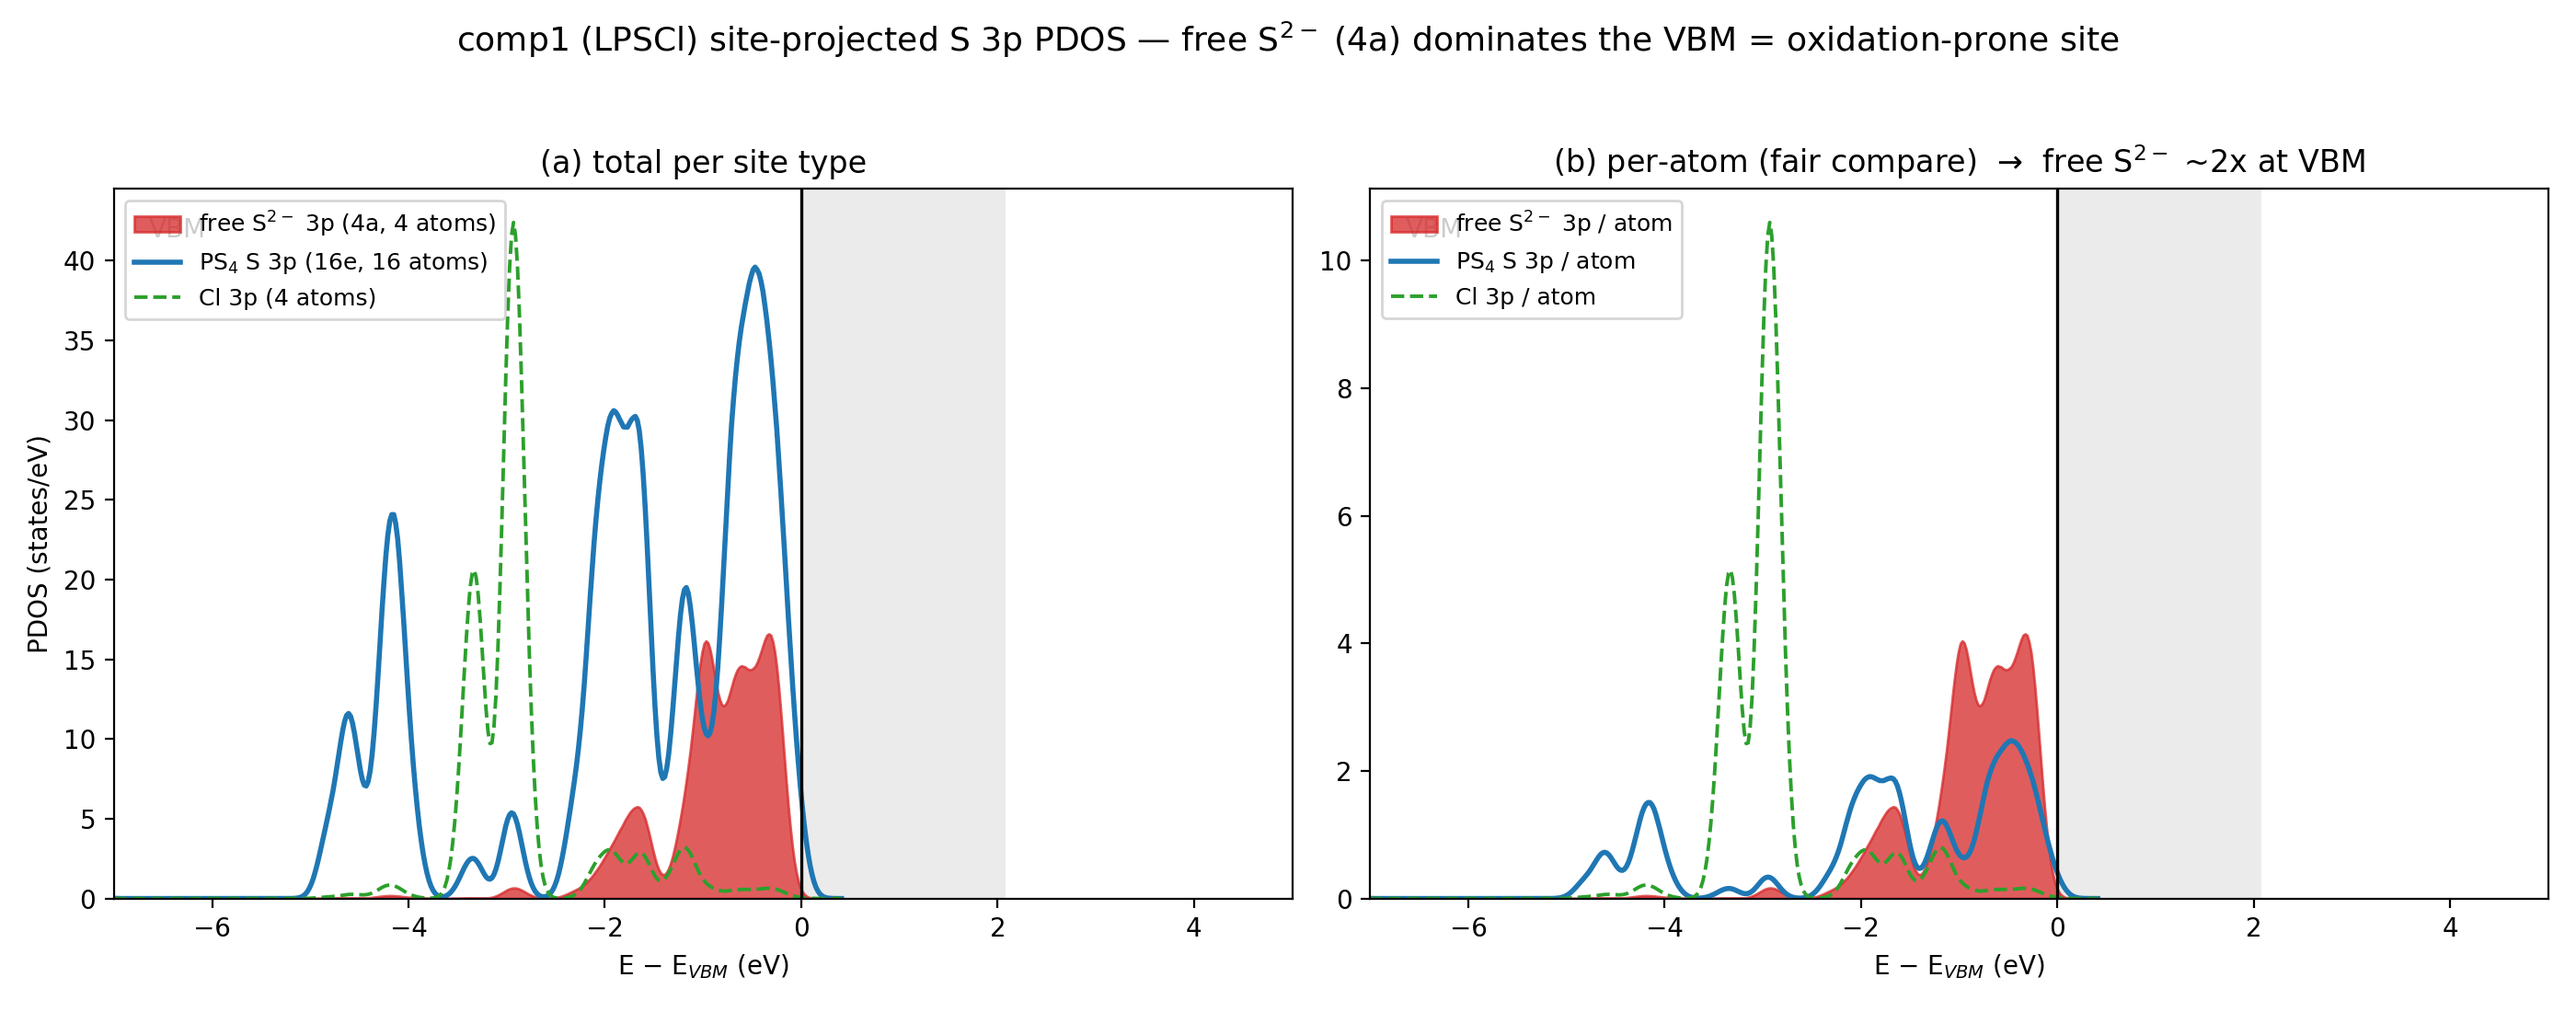
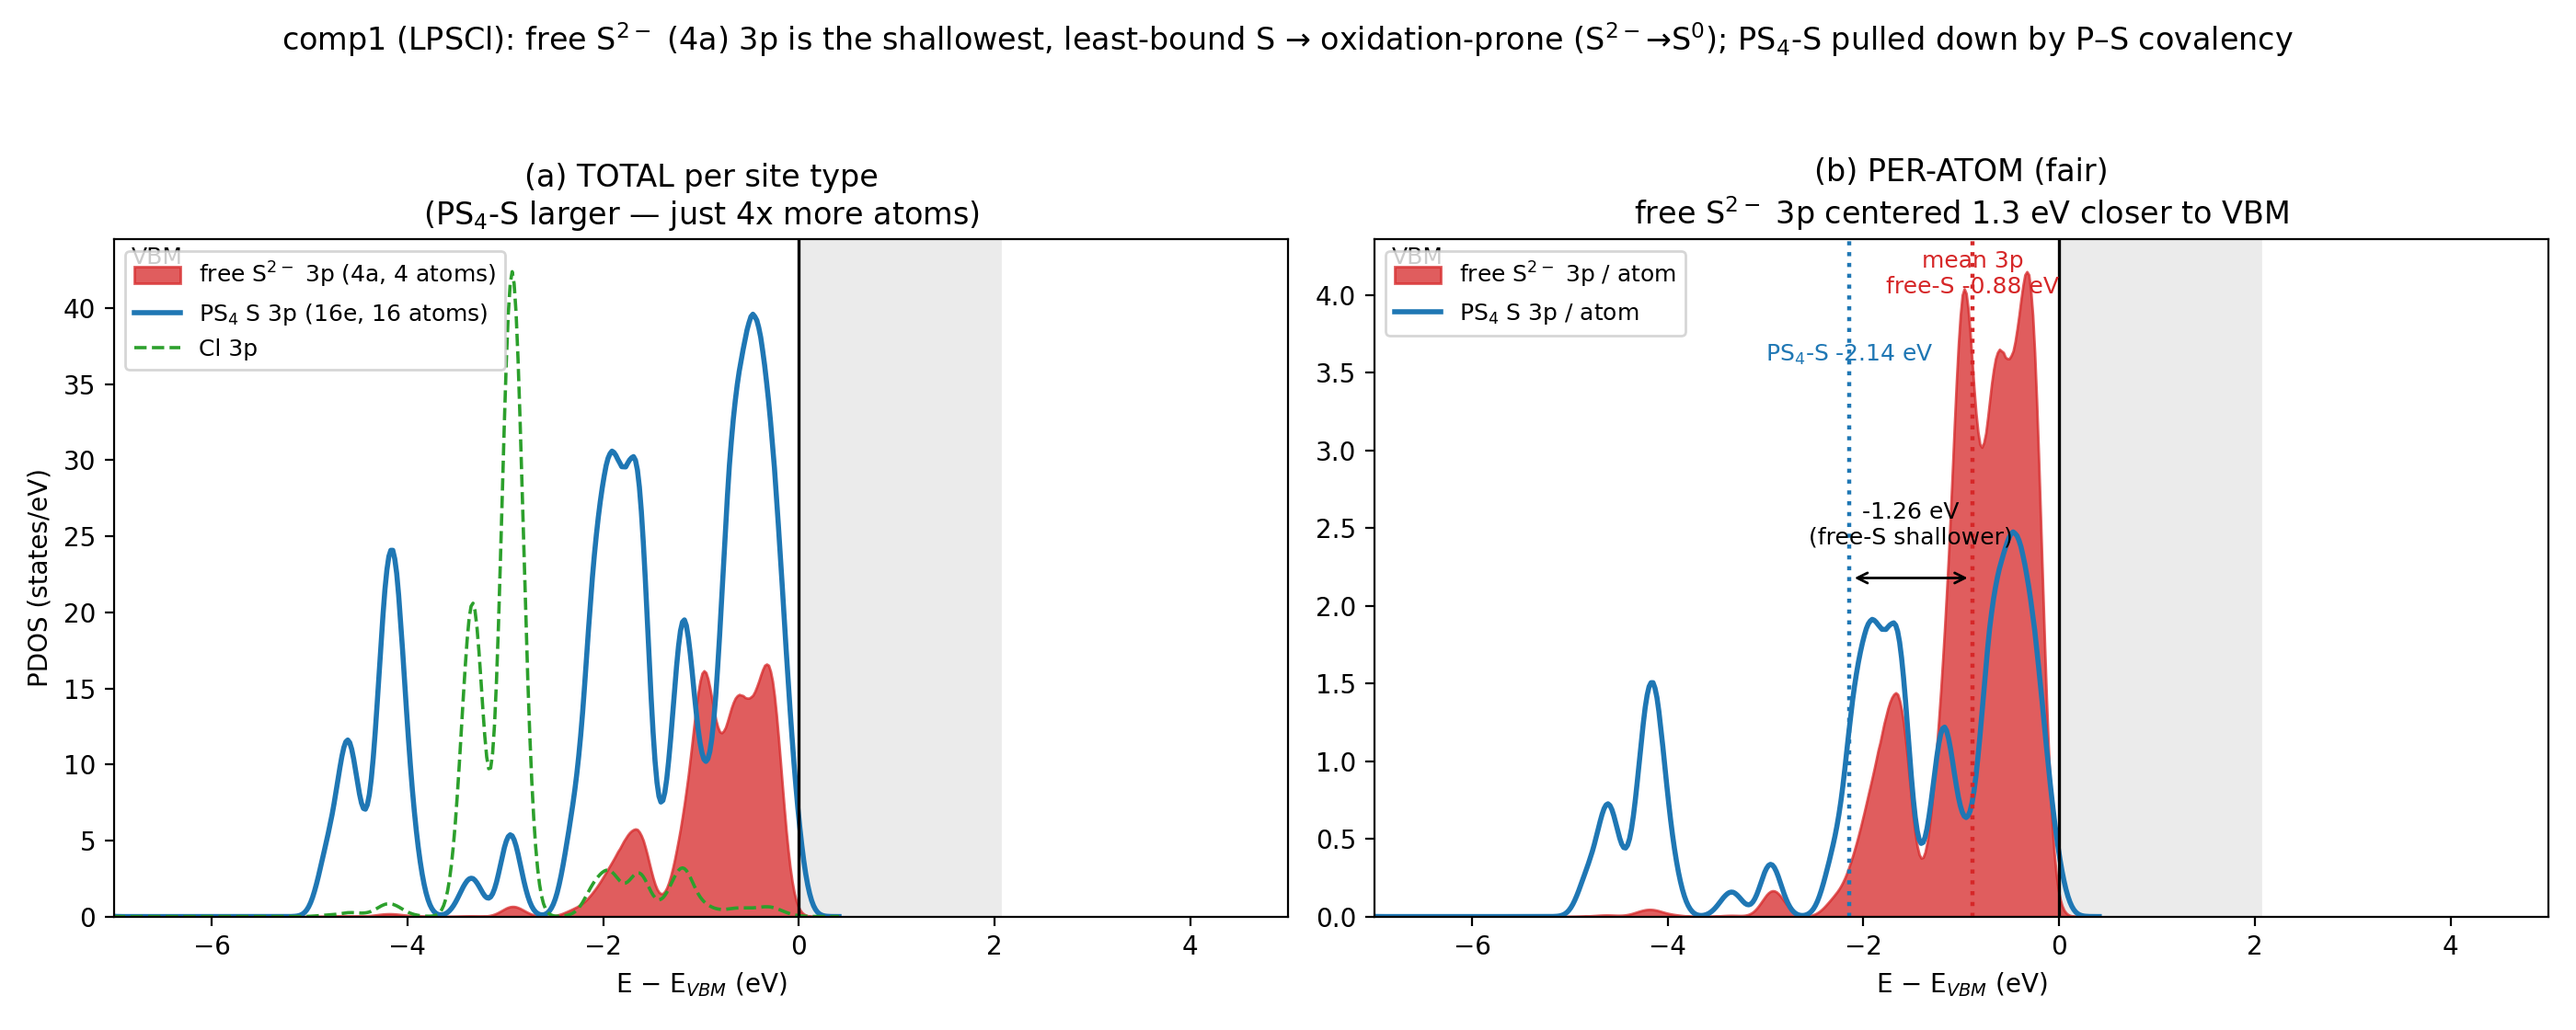
Fix comp1 PDOS framing: free-S shallowest (not total-dominant)
Correction after review: in TOTAL the PS4-S dominates the VBM region simply
because there are 4x more atoms (PS4/free = 3.8x). The honest, count-independent
evidence that free S2- is the oxidation-prone site is the mean occupied 3p
energy: free-S centered at -0.88 eV vs PS4-S -2.14 eV (free-S 1.26 eV shallower /
closer to VBM), because PS4-S 3p is pulled down by P-S covalency. Per-atom free-S
is ~1.9x at the VBM edge. Figure relabeled accordingly.

Claude-Session: https://claude.ai/code/session_01L44TWYrHkcm4PH5ihWSSCw

diff --git a/tools/electronic/plot_pdos_site.py b/tools/electronic/plot_pdos_site.py
@@ -1,36 +1,43 @@
 import numpy as np, glob, re, matplotlib
 matplotlib.use("Agg"); import matplotlib.pyplot as plt
-def grp_sum(prefix, elem, idxset, wfc='2(p)'):
-    E=None; tot=None
-    for f in glob.glob(f"{prefix}.pdos_atm#*({elem})_wfc#{wfc}"):
+def grp(elem,idx,wfc='2(p)'):
+    E=None;t=None
+    for f in glob.glob(f'comp1.pdos_atm#*({elem})_wfc#{wfc}'):
         n=int(re.search(r'atm#(\d+)',f).group(1))
-        if n not in idxset: continue
-        d=np.loadtxt(f)
-        if E is None: E=d[:,0]; tot=np.zeros_like(E)
-        tot=tot+d[:,1]
-    return E,tot
-pre="comp1"; freeS=set(range(49,53)); ps4S=set(range(5,21))
-E,fS=grp_sum(pre,"S",freeS); _,pS=grp_sum(pre,"S",ps4S)
-allCl={int(re.search(r'atm#(\d+)',f).group(1)) for f in glob.glob(f"{pre}.pdos_atm#*(Cl)_wfc#2(p)")}
-_,Clp=grp_sum(pre,"Cl",allCl)
-vbm,cbm=2.130,4.190; Es=E-vbm
-fig,axs=plt.subplots(1,2,figsize=(14,5.5),sharex=True)
-# (a) total site-projected
+        if n not in idx: continue
+        d=np.loadtxt(f); E=d[:,0] if E is None else E; t=d[:,1] if t is None else t+d[:,1]
+    return E,t
+free=set(range(49,53)); ps4=set(range(5,21))
+E,fS=grp('S',free); _,pS=grp('S',ps4)
+allCl={int(re.search(r'atm#(\d+)',f).group(1)) for f in glob.glob('comp1.pdos_atm#*(Cl)_wfc#2(p)')}
+_,Clp=grp('Cl',allCl)
+vbm,cbm=2.130,4.190; Es=E-vbm; occ=Es<=0.05
+mf=(Es*fS)[occ].sum()/fS[occ].sum(); mp=(Es*pS)[occ].sum()/pS[occ].sum()
+fig,axs=plt.subplots(1,2,figsize=(14,5.6),sharex=True)
 ax=axs[0]
 ax.fill_between(Es,fS,color="#d62728",alpha=0.75,label="free S$^{2-}$ 3p (4a, 4 atoms)")
 ax.plot(Es,pS,color="#1f77b4",lw=2,label="PS$_4$ S 3p (16e, 16 atoms)")
-ax.plot(Es,Clp,color="#2ca02c",lw=1.4,ls='--',label="Cl 3p (4 atoms)")
-ax.set_title("(a) total per site type"); ax.legend(fontsize=9,loc='upper left')
-# (b) per-atom normalized
+ax.plot(Es,Clp,color="#2ca02c",lw=1.3,ls='--',label="Cl 3p")
+ax.set_title("(a) TOTAL per site type\n(PS$_4$-S larger — just 4x more atoms)")
+ax.legend(fontsize=9,loc='upper left')
 ax=axs[1]
-ax.fill_between(Es,fS/len(freeS),color="#d62728",alpha=0.75,label="free S$^{2-}$ 3p / atom")
-ax.plot(Es,pS/len(ps4S),color="#1f77b4",lw=2,label="PS$_4$ S 3p / atom")
-ax.plot(Es,Clp/max(1,len(allCl)),color="#2ca02c",lw=1.4,ls='--',label="Cl 3p / atom")
-ax.set_title("(b) per-atom (fair compare)  →  free S$^{2-}$ ~2x at VBM"); ax.legend(fontsize=9,loc='upper left')
+ax.fill_between(Es,fS/4,color="#d62728",alpha=0.75,label="free S$^{2-}$ 3p / atom")
+ax.plot(Es,pS/16,color="#1f77b4",lw=2,label="PS$_4$ S 3p / atom")
+ax.axvline(mf,color="#d62728",lw=1.6,ls=':'); ax.axvline(mp,color="#1f77b4",lw=1.6,ls=':')
+ax.annotate(f"mean 3p\nfree-S {mf:.2f} eV",(mf,0.92),xycoords=('data','axes fraction'),
+            color="#d62728",fontsize=9,ha='center')
+ax.annotate(f"PS$_4$-S {mp:.2f} eV",(mp,0.82),xycoords=('data','axes fraction'),
+            color="#1f77b4",fontsize=9,ha='center')
+ax.annotate("", xy=(mf,0.5),xytext=(mp,0.5),xycoords=('data','axes fraction'),
+            arrowprops=dict(arrowstyle="<->",color='k'))
+ax.annotate(f"{mp-mf:+.2f} eV\n(free-S shallower)",xy=((mf+mp)/2,0.55),xycoords=('data','axes fraction'),
+        ha='center',fontsize=9)
+ax.set_title("(b) PER-ATOM (fair)\nfree S$^{2-}$ 3p centered 1.3 eV closer to VBM")
+ax.legend(fontsize=9,loc='upper left')
 for ax in axs:
     ax.axvline(0,color='k',lw=1.2); ax.axvspan(0,cbm-vbm,color='0.92',zorder=0)
-    ax.text(0.03,0.96,"VBM",transform=ax.transAxes,fontsize=10,va='top')
+    ax.text(0.015,0.99,"VBM",transform=ax.transAxes,fontsize=9,va='top')
     ax.set_xlim(-7,5); ax.set_ylim(0,None); ax.set_xlabel("E − E$_{VBM}$ (eV)")
 axs[0].set_ylabel("PDOS (states/eV)")
-fig.suptitle("comp1 (LPSCl) site-projected S 3p PDOS — free S$^{2-}$ (4a) dominates the VBM = oxidation-prone site",fontsize=13)
-plt.tight_layout(rect=[0,0,1,0.96]); plt.savefig("comp1_pdos_site.png",dpi=200); print("-> comp1_pdos_site.png")
+fig.suptitle("comp1 (LPSCl): free S$^{2-}$ (4a) 3p is the shallowest, least-bound S → oxidation-prone (S$^{2-}$→S$^0$); PS$_4$-S pulled down by P–S covalency",fontsize=12)
+plt.tight_layout(rect=[0,0,1,0.95]); plt.savefig("comp1_pdos_site.png",dpi=200); print("-> updated comp1_pdos_site.png")
